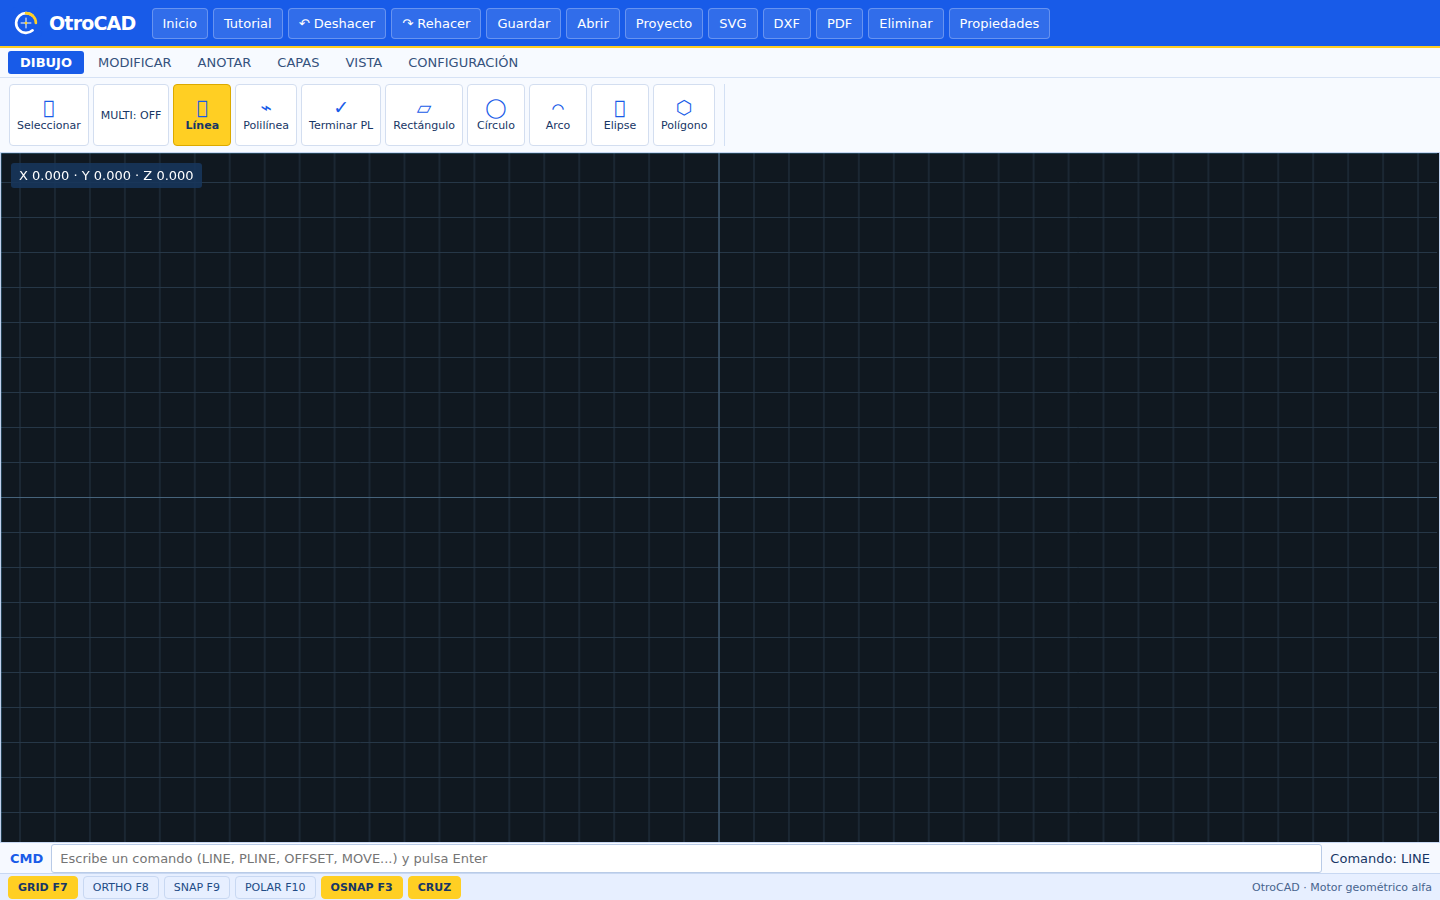
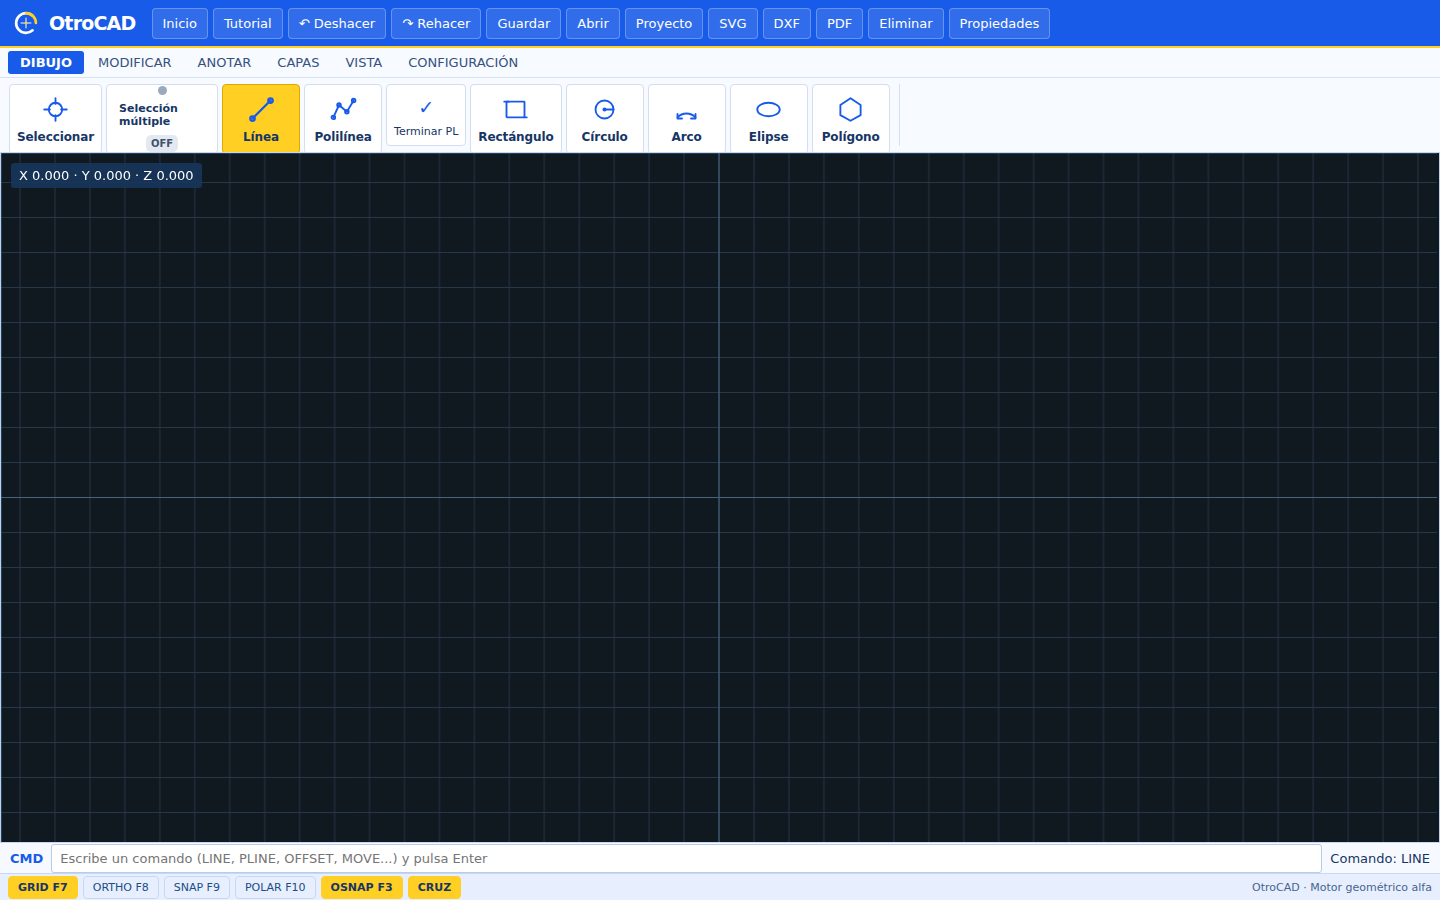
deploy: 8b2c799493db02c7bb58ec68d17aa1e3d611e7e2

Changed region(s): [[0.0, 0.0933, 0.625, 0.1867]]

diff --git a/editor/index.html b/editor/index.html
@@ -89,12 +89,13 @@ button:focus-visible,input:focus-visible,select:focus-visible{outline:2px solid 
  #statusbar button{min-height:34px!important;font-size:11px!important}
  #crossinfo{font-size:11px!important}
 }
+.toolgroup button[data-tool]{display:flex;flex-direction:column;align-items:center;justify-content:center;gap:6px;min-width:78px;min-height:70px;font-size:12px;font-weight:550;letter-spacing:-.1px}.toolgroup .ico{display:flex;align-items:center;justify-content:center;width:30px;height:30px;font-size:23px}.toolgroup .ico svg{width:27px;height:27px;display:block}.toolgroup button[data-tool].active .ico svg{stroke-width:2}.toolgroup button[data-tool]:hover{background:#e9f0ff;color:#185be8;transform:translateY(-1px)}#multiSelectToggle{display:flex;align-items:center;justify-content:center;gap:7px;min-height:70px;padding:8px 12px;font-weight:600}#multiSelectToggle .multi-dot{width:9px;height:9px;border-radius:50%;background:#9aa9bc;flex-shrink:0}#multiSelectToggle .multi-label{max-width:86px;white-space:normal;line-height:1.2;text-align:left}#multiSelectToggle .multi-state{font-size:10px;padding:3px 5px;border-radius:5px;background:#e4e9f1;color:#40536a}#multiSelectToggle.active .multi-dot{background:#185be8;box-shadow:0 0 0 3px #185be82b}#multiSelectToggle.active .multi-state{background:#185be8;color:white}@media(max-width:650px){.toolgroup button[data-tool]{min-width:70px}.toolgroup .ico svg{width:25px;height:25px}}
 </style></head><body>
 <header><span id="brand"><svg class="brandmark" viewBox="0 0 512 512" aria-hidden="true"><rect width="512" height="512" rx="104" fill="#185BE8"/><circle cx="256" cy="256" r="158" fill="none" stroke="#FFFFFF" stroke-width="42" stroke-dasharray="720 275" stroke-linecap="round" transform="rotate(48 256 256)"/><path d="M256 98a158 158 0 0 1 158 158" fill="none" stroke="#FFCF23" stroke-width="42" stroke-linecap="round"/><path d="M256 177v158M177 256h158" stroke="#FFFFFF" stroke-width="16" stroke-linecap="round"/><circle cx="256" cy="256" r="22" fill="#FFCF23"/></svg><span><span class="o">O</span><span class="cad">troCAD</span></span></span><div id="filebar"><button onclick="location.href='../index.html'">Inicio</button><button onclick="location.href='../tutorial/'">Tutorial</button><button id="undo">↶ Deshacer</button><button id="redo">↷ Rehacer</button><button id="save">Guardar</button><button id="open">Abrir</button><button id="project">Proyecto</button><button id="export">SVG</button><button id="dxf">DXF</button><button id="pdf">PDF</button><button id="erase">Eliminar</button><button id="propertiesBtn">Propiedades</button></div></header>
 <section id="ribbon"><nav id="tabs" aria-label="Herramientas CAD"><button class="active" data-tab="draw" aria-selected="true">DIBUJO</button><button data-tab="modify">MODIFICAR</button><button data-tab="annotate">ANOTAR</button><button data-tab="layers">CAPAS</button><button data-tab="view">VISTA</button><button data-tab="settings">CONFIGURACIÓN</button></nav><div id="groups">
-<div class="toolgroup" data-panel="draw"><button data-tool="select"><span class="ico">⌖</span>Seleccionar</button><button id="multiSelectToggle" aria-pressed="false">MULTI: OFF</button><button data-tool="line"><span class="ico">／</span>Línea</button><button data-tool="poly"><span class="ico">⌁</span>Polilínea</button><button id="finish-poly"><span class="ico">✓</span>Terminar PL</button><button data-tool="rect"><span class="ico">▱</span>Rectángulo</button><button data-tool="circle"><span class="ico">◯</span>Círculo</button><button data-tool="arc"><span class="ico">⌒</span>Arco</button><button data-tool="ellipse"><span class="ico">⬭</span>Elipse</button><button data-tool="polygon"><span class="ico">⬡</span>Polígono</button></div>
-<div class="toolgroup" data-panel="modify" hidden><button data-tool="move"><span class="ico">✥</span>Mover</button><button data-tool="copy"><span class="ico">▢</span>Copiar</button><button data-tool="offset"><span class="ico">∥</span>Offset</button><button data-tool="rotate"><span class="ico">⟳</span>Rotar</button><button data-tool="mirror"><span class="ico">◫</span>Simetría</button><button data-tool="scale"><span class="ico">↗</span>Escalar</button><button data-tool="trim"><span class="ico">✂</span>Recortar</button><button data-tool="extend"><span class="ico">↔</span>Alargar</button><button data-tool="fillet"><span class="ico">⌜</span>Empalme</button><button data-tool="explode"><span class="ico">✣</span>Explotar</button></div>
-<div class="toolgroup" data-panel="annotate" hidden><button data-tool="dim"><span class="ico">↔</span>Cota lineal</button><button data-tool="text"><span class="ico">T</span>Texto</button><button data-tool="hatch"><span class="ico">▨</span>Hatch</button><button data-tool="leader"><span class="ico">↗</span>Directriz</button></div>
+<div class="toolgroup" data-panel="draw"><button data-tool="select"><span class="ico"><svg viewBox="0 0 24 24" fill="none" stroke="currentColor" stroke-width="1.65" stroke-linecap="round" stroke-linejoin="round" aria-hidden="true"><circle cx="12" cy="12" r="6"/><path d="M12 2v5m0 10v5M2 12h5m10 0h5"/></svg></span>Seleccionar</button><button id="multiSelectToggle" aria-pressed="false" title="Seleccionar varios objetos a la vez"><span class="multi-dot"></span><span class="multi-label">Selección múltiple</span><span class="multi-state">OFF</span></button><button data-tool="line"><span class="ico"><svg viewBox="0 0 24 24" fill="none" stroke="currentColor" stroke-width="1.65" stroke-linecap="round" stroke-linejoin="round" aria-hidden="true"><path d="M4 20 20 4"/><circle cx="4" cy="20" r="2"/><circle cx="20" cy="4" r="2"/></svg></span>Línea</button><button data-tool="poly"><span class="ico"><svg viewBox="0 0 24 24" fill="none" stroke="currentColor" stroke-width="1.65" stroke-linecap="round" stroke-linejoin="round" aria-hidden="true"><path d="m3 19 5-11 7 6 6-10"/><circle cx="3" cy="19" r="1.6"/><circle cx="8" cy="8" r="1.6"/><circle cx="15" cy="14" r="1.6"/><circle cx="21" cy="4" r="1.6"/></svg></span>Polilínea</button><button id="finish-poly"><span class="ico">✓</span>Terminar PL</button><button data-tool="rect"><span class="ico"><svg viewBox="0 0 24 24" fill="none" stroke="currentColor" stroke-width="1.65" stroke-linecap="round" stroke-linejoin="round" aria-hidden="true"><rect x="4" y="5" width="16" height="14" rx="0.5"/><path d="M2 5h4m14 14h2"/></svg></span>Rectángulo</button><button data-tool="circle"><span class="ico"><svg viewBox="0 0 24 24" fill="none" stroke="currentColor" stroke-width="1.65" stroke-linecap="round" stroke-linejoin="round" aria-hidden="true"><circle cx="12" cy="12" r="8"/><path d="M12 12h8"/><circle cx="12" cy="12" r="1"/></svg></span>Círculo</button><button data-tool="arc"><span class="ico"><svg viewBox="0 0 24 24" fill="none" stroke="currentColor" stroke-width="1.65" stroke-linecap="round" stroke-linejoin="round" aria-hidden="true"><path d="M4 19a11 11 0 0 1 16 0"/><path d="M4 16v4h4m8 0h4v-4"/></svg></span>Arco</button><button data-tool="ellipse"><span class="ico"><svg viewBox="0 0 24 24" fill="none" stroke="currentColor" stroke-width="1.65" stroke-linecap="round" stroke-linejoin="round" aria-hidden="true"><ellipse cx="12" cy="12" rx="10" ry="6"/></svg></span>Elipse</button><button data-tool="polygon"><span class="ico"><svg viewBox="0 0 24 24" fill="none" stroke="currentColor" stroke-width="1.65" stroke-linecap="round" stroke-linejoin="round" aria-hidden="true"><path d="m12 2 9 6v9l-9 5-9-5V8z"/></svg></span>Polígono</button></div>
+<div class="toolgroup" data-panel="modify" hidden><button data-tool="move"><span class="ico"><svg viewBox="0 0 24 24" fill="none" stroke="currentColor" stroke-width="1.65" stroke-linecap="round" stroke-linejoin="round" aria-hidden="true"><path d="M12 2v20M2 12h20m-10-10-3 3m3-3 3 3m-3 17-3-3m3 3 3-3M2 12l3-3m-3 3 3 3m17-3-3-3m3 3-3 3"/></svg></span>Mover</button><button data-tool="copy"><span class="ico"><svg viewBox="0 0 24 24" fill="none" stroke="currentColor" stroke-width="1.65" stroke-linecap="round" stroke-linejoin="round" aria-hidden="true"><rect x="8" y="8" width="12" height="12" rx="1"/><path d="M16 8V4H4v12h4"/></svg></span>Copiar</button><button data-tool="offset"><span class="ico"><svg viewBox="0 0 24 24" fill="none" stroke="currentColor" stroke-width="1.65" stroke-linecap="round" stroke-linejoin="round" aria-hidden="true"><path d="m4 18 11-11m-5 14L21 10"/><path d="M16 4h5v5"/></svg></span>Offset</button><button data-tool="rotate"><span class="ico"><svg viewBox="0 0 24 24" fill="none" stroke="currentColor" stroke-width="1.65" stroke-linecap="round" stroke-linejoin="round" aria-hidden="true"><path d="M4 10a8 8 0 1 1 1 7"/><path d="M4 3v7h7"/></svg></span>Rotar</button><button data-tool="mirror"><span class="ico"><svg viewBox="0 0 24 24" fill="none" stroke="currentColor" stroke-width="1.65" stroke-linecap="round" stroke-linejoin="round" aria-hidden="true"><path d="M12 2v20" stroke-dasharray="2 2"/><path d="m9 6-6 6 6 6m6-12 6 6-6 6"/></svg></span>Simetría</button><button data-tool="scale"><span class="ico"><svg viewBox="0 0 24 24" fill="none" stroke="currentColor" stroke-width="1.65" stroke-linecap="round" stroke-linejoin="round" aria-hidden="true"><path d="M4 20 20 4m-9 0h9v9"/><rect x="3" y="13" width="8" height="8"/></svg></span>Escalar</button><button data-tool="trim"><span class="ico"><svg viewBox="0 0 24 24" fill="none" stroke="currentColor" stroke-width="1.65" stroke-linecap="round" stroke-linejoin="round" aria-hidden="true"><path d="M4 5 20 19M4 19 20 5"/><circle cx="8" cy="9" r="2"/><circle cx="16" cy="9" r="2"/></svg></span>Recortar</button><button data-tool="extend"><span class="ico"><svg viewBox="0 0 24 24" fill="none" stroke="currentColor" stroke-width="1.65" stroke-linecap="round" stroke-linejoin="round" aria-hidden="true"><path d="M3 19 15 7m-3 0h9M15 2v10" stroke-dasharray="3 2"/></svg></span>Alargar</button><button data-tool="fillet"><span class="ico"><svg viewBox="0 0 24 24" fill="none" stroke="currentColor" stroke-width="1.65" stroke-linecap="round" stroke-linejoin="round" aria-hidden="true"><path d="M4 20V10a6 6 0 0 1 6-6h10"/></svg></span>Empalme</button><button data-tool="explode"><span class="ico"><svg viewBox="0 0 24 24" fill="none" stroke="currentColor" stroke-width="1.65" stroke-linecap="round" stroke-linejoin="round" aria-hidden="true"><path d="m12 2 2 7 7-2-5 5 5 5-7-2-2 7-2-7-7 2 5-5-5-5 7 2z"/></svg></span>Explotar</button></div>
+<div class="toolgroup" data-panel="annotate" hidden><button data-tool="dim"><span class="ico"><svg viewBox="0 0 24 24" fill="none" stroke="currentColor" stroke-width="1.65" stroke-linecap="round" stroke-linejoin="round" aria-hidden="true"><path d="M3 5v14m18-14v14M5 12h14m-14 0 3-3m-3 3 3 3m11-3-3-3m3 3-3 3"/></svg></span>Cota lineal</button><button data-tool="text"><span class="ico"><svg viewBox="0 0 24 24" fill="none" stroke="currentColor" stroke-width="1.65" stroke-linecap="round" stroke-linejoin="round" aria-hidden="true"><path d="M4 6V4h16v2M12 4v16m-5 0h10"/></svg></span>Texto</button><button data-tool="hatch"><span class="ico"><svg viewBox="0 0 24 24" fill="none" stroke="currentColor" stroke-width="1.65" stroke-linecap="round" stroke-linejoin="round" aria-hidden="true"><rect x="3" y="3" width="18" height="18"/><path d="m3 12 9-9m-9 17L20 3M10 21 21 10"/></svg></span>Hatch</button><button data-tool="leader"><span class="ico"><svg viewBox="0 0 24 24" fill="none" stroke="currentColor" stroke-width="1.65" stroke-linecap="round" stroke-linejoin="round" aria-hidden="true"><path d="m3 21 7-7h10V4"/><path d="m3 21 2-6 4 4z"/></svg></span>Directriz</button></div>
 <div class="toolgroup" data-panel="layers" hidden><label style="align-self:center;color:#a9bfd2">CAPA</label><select id="layer"><option>General</option><option>Muros</option><option>Cotas</option><option>Detalles</option><option>Topografía</option><option>Vialidad</option></select><button id="newLayer">+ Capa</button><button id="layerColor">Color capa</button><button id="layerVisibility">Ocultar capa</button><button id="layerLock">Bloquear capa</button><label style="align-self:center;color:#a9bfd2">COLOR</label><input id="drawColor" type="color" value="#dce8f5"><label style="align-self:center;color:#a9bfd2">GROSOR</label><select id="lineweight"><option value="0.13">0.13 mm</option><option value="0.18">0.18 mm</option><option value="0.25" selected>0.25 mm</option><option value="0.35">0.35 mm</option><option value="0.50">0.50 mm</option><option value="0.70">0.70 mm</option><option value="1.00">1.00 mm</option></select><label style="align-self:center;color:#a9bfd2">TIPO</label><select id="linetype"><option value="CONTINUOUS">Continua</option><option value="DASHED">Discontinua</option></select></div>
 <div class="toolgroup" data-panel="view" hidden><button id="zoomIn">＋ Zoom</button><button id="zoomOut">－ Zoom</button><button id="fit">Extensión</button><button data-tool="pan"><span class="ico">✥</span>Encuadre</button></div>
 <div class="toolgroup" data-panel="settings" hidden><button id="settingsBtn">Pantalla / HP</button><button id="unitsBtn">Unidades</button><button id="snapBtn">Referencias</button></div>

diff --git a/editor/editor.js b/editor/editor.js
@@ -421,7 +421,7 @@ function updateToggle(id,on){$(id).classList.toggle('active',on)}
 function toggle(id){const map={gridToggle:'gridOn',orthoToggle:'orthoOn',snapToggle:'snapOn',polarToggle:'polarOn',osnapToggle:'osnapOn',crossToggle:'crossOn'};const k=map[id];if(k==='gridOn')gridOn=!gridOn;if(k==='orthoOn')orthoOn=!orthoOn;if(k==='snapOn')snapOn=!snapOn;if(k==='polarOn')polarOn=!polarOn;if(k==='osnapOn')osnapOn=!osnapOn;if(k==='crossOn')crossOn=!crossOn;const values={gridOn,orthoOn,snapOn,polarOn,osnapOn,crossOn};updateToggle('#'+id,values[k]);render()}
 [['gridToggle',gridOn],['orthoToggle',orthoOn],['snapToggle',snapOn],['polarToggle',polarOn],['osnapToggle',osnapOn],['crossToggle',crossOn]].forEach(([id,on])=>updateToggle('#'+id,on));
 ['gridToggle','orthoToggle','snapToggle','polarToggle','osnapToggle','crossToggle'].forEach(id=>$('#'+id).onclick=()=>toggle(id));
-$('#multiSelectToggle').onclick=()=>{multiSelectOn=!multiSelectOn;$('#multiSelectToggle').textContent='MULTI: '+(multiSelectOn?'ON':'OFF');$('#multiSelectToggle').setAttribute('aria-pressed',String(multiSelectOn));$('#multiSelectToggle').classList.toggle('active',multiSelectOn);status.textContent='Selección múltiple '+(multiSelectOn?'activada':'desactivada')};
+$('#multiSelectToggle').onclick=()=>{multiSelectOn=!multiSelectOn;$('#multiSelectToggle').querySelector('.multi-state').textContent=multiSelectOn?'ON':'OFF';$('#multiSelectToggle').setAttribute('aria-pressed',String(multiSelectOn));$('#multiSelectToggle').classList.toggle('active',multiSelectOn);status.textContent='Selección múltiple '+(multiSelectOn?'activada':'desactivada')};
 document.addEventListener('keydown',e=>{
  if(e.key==='Escape'){e.preventDefault();if(gripDrag)cancelGripDrag();start=null;temp=null;poly=[];moveBase=null;modifyTarget=-1;modifyTargets=[];selectionStart=null;selectionBox=null;clearSelection();if(document.activeElement?.id==='cmd')document.activeElement.blur();showProperties();render();return}
  if(['INPUT','TEXTAREA','SELECT'].includes(document.activeElement?.tagName)){if(e.key==='Enter'&&document.activeElement.id==='dynLen'){e.preventDefault();$('#dynAngle').focus()}else if(e.key==='Enter'&&document.activeElement.id==='dynAngle'){e.preventDefault();const q=pointFromInputs();if(q){if(tool==='poly'&&poly.length){poly.push(q);temp=null;$('#dynLen').value='';$('#dynAngle').value='';render();status.textContent='Vértice añadido'}else commitEntity(q)}}return}
